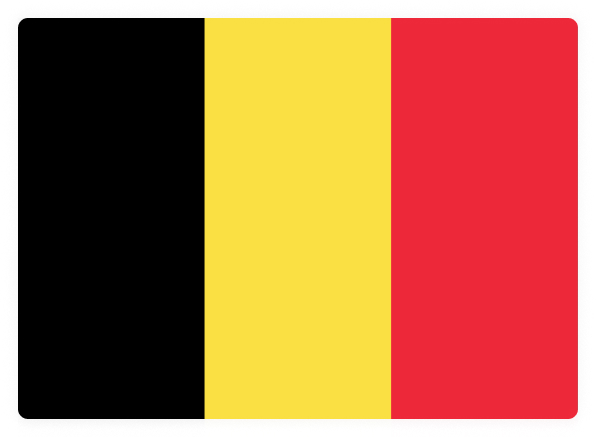
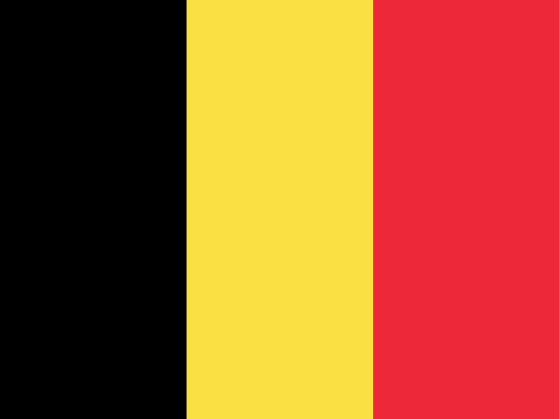
Detail.html add

Changed region(s): [[0.0, 0.0, 1.0, 1.0]]

diff --git a/index.html b/index.html
@@ -1,17 +1,17 @@
 <!DOCTYPE html>
 <html lang="en">
-  <header>
+  <head>
     <meta charset="UTF-8" />
     <meta http-equiv="X-UA-Compatible" content="IE=edge" />
     <meta name="viewport" content="width=device-width, initial-scale=1.0" />
     <title>Movies</title>
     <link rel="stylesheet" href="bootstrap-5.2.2-dist/css/bootstrap.css" />
     <link rel="stylesheet" href="./css/main.css" />
-  </header>
+  </head>
   <body>
     <h1 class="visually-hidden">Lorem ipsum dolor sit amet.s</h1>
     <header class="site-header shadow-none p-3 mb-5 rounded">
-      <div class="container">
+      <div class="container-fluid">
         <div
           class="site-header__inner d-flex align-items-center justify-content-sm-between"
         >
@@ -68,7 +68,7 @@
               <p><span class="fw-semibold">Population</span>: 81,770,900</p>
               <p><span class="fw-semibold">Region</span>: Europe</p>
               <p><span class="fw-semibold">Capital</span>: Berlin</p>
-              <a class="stretched-link" href=".detail.html"></a>
+              <a class="stretched-link" href="./detail.html"></a>
             </div>
           </div>
           <div
@@ -88,7 +88,7 @@
               <p><span class="fw-semibold">Region</span>: Americas</p>
               <p>
                 <span class="fw-semibold">Capital</span>: Washington, D.
-                <a class="stretched-link" href=".detail.html"></a>C.
+                <a class="stretched-link" href="./detail.html"></a>C.
               </p>
             </div>
           </div>
@@ -108,7 +108,7 @@
               <p><span class="fw-semibold">Population</span>: 206,135,893</p>
               <p><span class="fw-semibold">Region</span>: Americas</p>
               <p><span class="fw-semibold">Capital</span>: Brasília</p>
-              <a class="stretched-link" href=".detail.html"></a>
+              <a class="stretched-link" href="./detail.html"></a>
             </div>
           </div>
           <div
@@ -127,7 +127,7 @@
               <p><span class="fw-semibold">Population</span>: 334,300</p>
               <p><span class="fw-semibold">Region</span>: Europe</p>
               <p><span class="fw-semibold">Capital</span>: Reykjavík</p>
-              <a class="stretched-link" href=".detail.html"></a>
+              <a class="stretched-link" href="./detail.html"></a>
             </div>
           </div>
           <div
@@ -145,7 +145,7 @@
               <h2 class="card-title">Afghanistan</h2>
               <p><span class="fw-semibold">Population</span>: 27,657,145</p>
               <p><span class="fw-semibold">Region</span>: Asia</p>
-              <a class="stretched-link" href=".detail.html"></a>
+              <a class="stretched-link" href="./detail.html"></a>
               <p><span class="fw-semibold">Capital</span>: Kabul</p>
             </div>
           </div>
@@ -164,7 +164,7 @@
               <h2 class="card-title">Åland Islands</h2>
               <p><span class="fw-semibold">Population</span>: 28,875</p>
               <p><span class="fw-semibold">Region</span>: Europe</p>
-              <a class="stretched-link" href=".detail.html"></a>
+              <a class="stretched-link" href="./detail.html"></a>
               <p><span class="fw-semibold">Capital</span>: Mariehamn</p>
             </div>
           </div>
@@ -184,7 +184,7 @@
               <p><span class="fw-semibold">Population</span>: 2,886,026</p>
               <p><span class="fw-semibold">Region</span>: Europe</p>
               <p><span class="fw-semibold">Capital</span>: Tirana</p>
-              <a class="stretched-link" href=".detail.html"></a>
+              <a class="stretched-link" href="./detail.html"></a>
             </div>
           </div>
           <div
@@ -203,7 +203,7 @@
               <p><span class="fw-semibold">Population</span>: 40,400,000</p>
               <p><span class="fw-semibold">Region</span>: Africa</p>
               <p><span class="fw-semibold">Capital</span>: Algiers</p>
-              <a class="stretched-link" href=".detail.html"></a>
+              <a class="stretched-link" href="./detail.html"></a>
             </div>
           </div>
         </div>

diff --git a/detail.html b/detail.html
@@ -1,17 +1,74 @@
 <!DOCTYPE html>
 <html lang="en">
-<head>
-  <meta charset="UTF-8">
-  <meta http-equiv="X-UA-Compatible" content="IE=edge">
-  <meta name="viewport" content="width=device-width, initial-scale=1.0">
-  <title>Detail</title>
-  <link rel="stylesheet" href="bootstrap-5.2.2-dist/css/bootstrap.css" />
+  <head>
+    <meta charset="UTF-8" />
+    <meta http-equiv="X-UA-Compatible" content="IE=edge" />
+    <meta name="viewport" content="width=device-width, initial-scale=1.0" />
+    <title>Detail</title>
+    <link rel="stylesheet" href="bootstrap-5.2.2-dist/css/bootstrap.css" />
     <link rel="stylesheet" href="./css/main.css" />
-</head>
-<body>
-  
-  <script src="./js/main.js"></script>
+  </head>
+  <body>
+    <h1 class="visually-hidden">Lorem ipsum dolor sit amet.s</h1>
+    <header class="site-header shadow-none p-3 mb-5 rounded">
+      <div class="container-fluid">
+        <div
+          class="site-header__inner d-flex align-items-center justify-content-sm-between"
+        >
+          <h2 class="text-center fw-normal">Where in the world?</h2>
+          <button class="mode-btn" type="button">Dark Mode</button>
+        </div>
+      </div>
+    </header>
+    <section class="container-fluid">
+      <button class="back-btn" type="button">
+        <a href="./index.html">Back</a>
+      </button>
+      <div class="row">
+        <div class="col-12 col-sm-12 col-md-12 col-lg-6 img-fluid">
+          <img
+            class="p-0 rounded"
+            width="560"
+            height="401"
+            src="./images/flag-belgium-big.jpg"
+            alt="Belgium flag image"
+          />
+        </div>
+        <div class="col-12 col-sm-12 col-md-12 col-lg-6">
+          <div class="row align-items-center">
+            <div class="col-12 col-sm-12 col-md-12 col-lg-6">
+              <h2 class="fs-1">Belgium</h2>
+              <p class="fs-5"><span class="fs-4">Native Name</span> : België</p>
+              <p class="fs-5">
+                <span class="fs-4">Population</span> : 11,319,511
+              </p>
+              <p class="fs-5"><span class="fs-4">Region</span> : Europe</p>
+              <p class="fs-5">
+                <span class="fs-4">Sub Region</span> : Western Europe
+              </p>
+              <p class="fs-5"><span class="fs-4">Capital</span> : Brussels</p>
+            </div>
+            <div class="col-12 col-sm-12 col-md-12 col-lg-6">
+              <p class="fs-4">
+                <span class="fs-4">Top Level Domain</span>: .be
+              </p>
+              <p class="fs-4"><span class="fs-4">Currencies</span>: Euro</p>
+              <p class="fs-4">
+                <span class="fs-4">Languages</span>: Dutch, French, German
+              </p>
+            </div>
+          </div>
+          <div class="">
+            <p class="d-inline-block me-3">Border Countries: </p>
+            <button type="button" class="btn btn-secondary">France</button>
+            <button type="button" class="btn btn-secondary">Germany</button>
+            <button type="button" class="btn btn-secondary">Netherlands</button>
+          </div>
+        </div>
+      </div>
+    </section>
+    <script src="./js/main.js"></script>
     <script src="./bootstrap-5.2.2-dist/js/bootstrap.bundl4js"></script>
     <script src="./bootstrap-5.2.2-dist/js/bootstrap.js"></script>
-</body>
+  </body>
 </html>

diff --git a/css/main.css b/css/main.css
@@ -4,12 +4,6 @@
   --main-text-color: #111517;
 }
 
-[data-theme="dark"] .mode {
-  --main-bg-color: #202c36;
-  --main-bg-color-light: #2b3844;
-  --main-text-color: #ffffff;
-}
-
 .mode {
   --main-bg-color: #202c36;
   --main-bg-color-light: #2b3844;
@@ -20,11 +14,13 @@ html {
   height: 100%;
   scroll-behavior: smooth;
 }
+
 *,
 *::before,
 *::after {
   box-sizing: border-box;
 }
+
 body {
   display: flex;
   flex-direction: column;
@@ -32,9 +28,11 @@ body {
   margin: 0;
   background-color: var(--main-bg-color);
 }
+
 main {
   flex-grow: 1;
 }
+
 img {
   vertical-align: middle;
   object-fit: cover;
@@ -76,8 +74,8 @@ img {
   background-repeat: no-repeat;
 }
 
-input {
-  background: var(--main-bg-color-light);
+.search-input {
+  background-color: var(--main-bg-color-light);
 }
 
 /* .search-input::placeholder {
@@ -95,6 +93,7 @@ input {
 }
 
 .form-select {
+  color: var(--main-text-color);
   background-color: var(--main-bg-color-light);
 }
 
@@ -104,5 +103,39 @@ input {
 
 .card-body h2,
 .card-body p {
+  color: var(--main-text-color);
+}
+
+.back-btn {
+  display: flex;
+  align-items: center;
+  width: 100%;
+  max-width: 136px;
+  margin: 80px 0;
+  padding: 10px 35px;
+  background-color: var(--main-bg-color-light);
+  border: none;
+  border-radius: 6px;
+  color: var(--main-text-color);
+}
+
+.back-btn::before {
+  content: "";
+  display: inline-block;
+  width: 20px;
+  height: 20px;
+  margin-right: 12px;
+  background-image: url("../images/call-made.svg");
+  background-repeat: no-repeat;
+}
+
+.back-btn a {
+  text-decoration: none;
+  color: var(--main-text-color);
+}
+
+h2,
+p,
+span {
   color: var(--main-text-color);
 }
